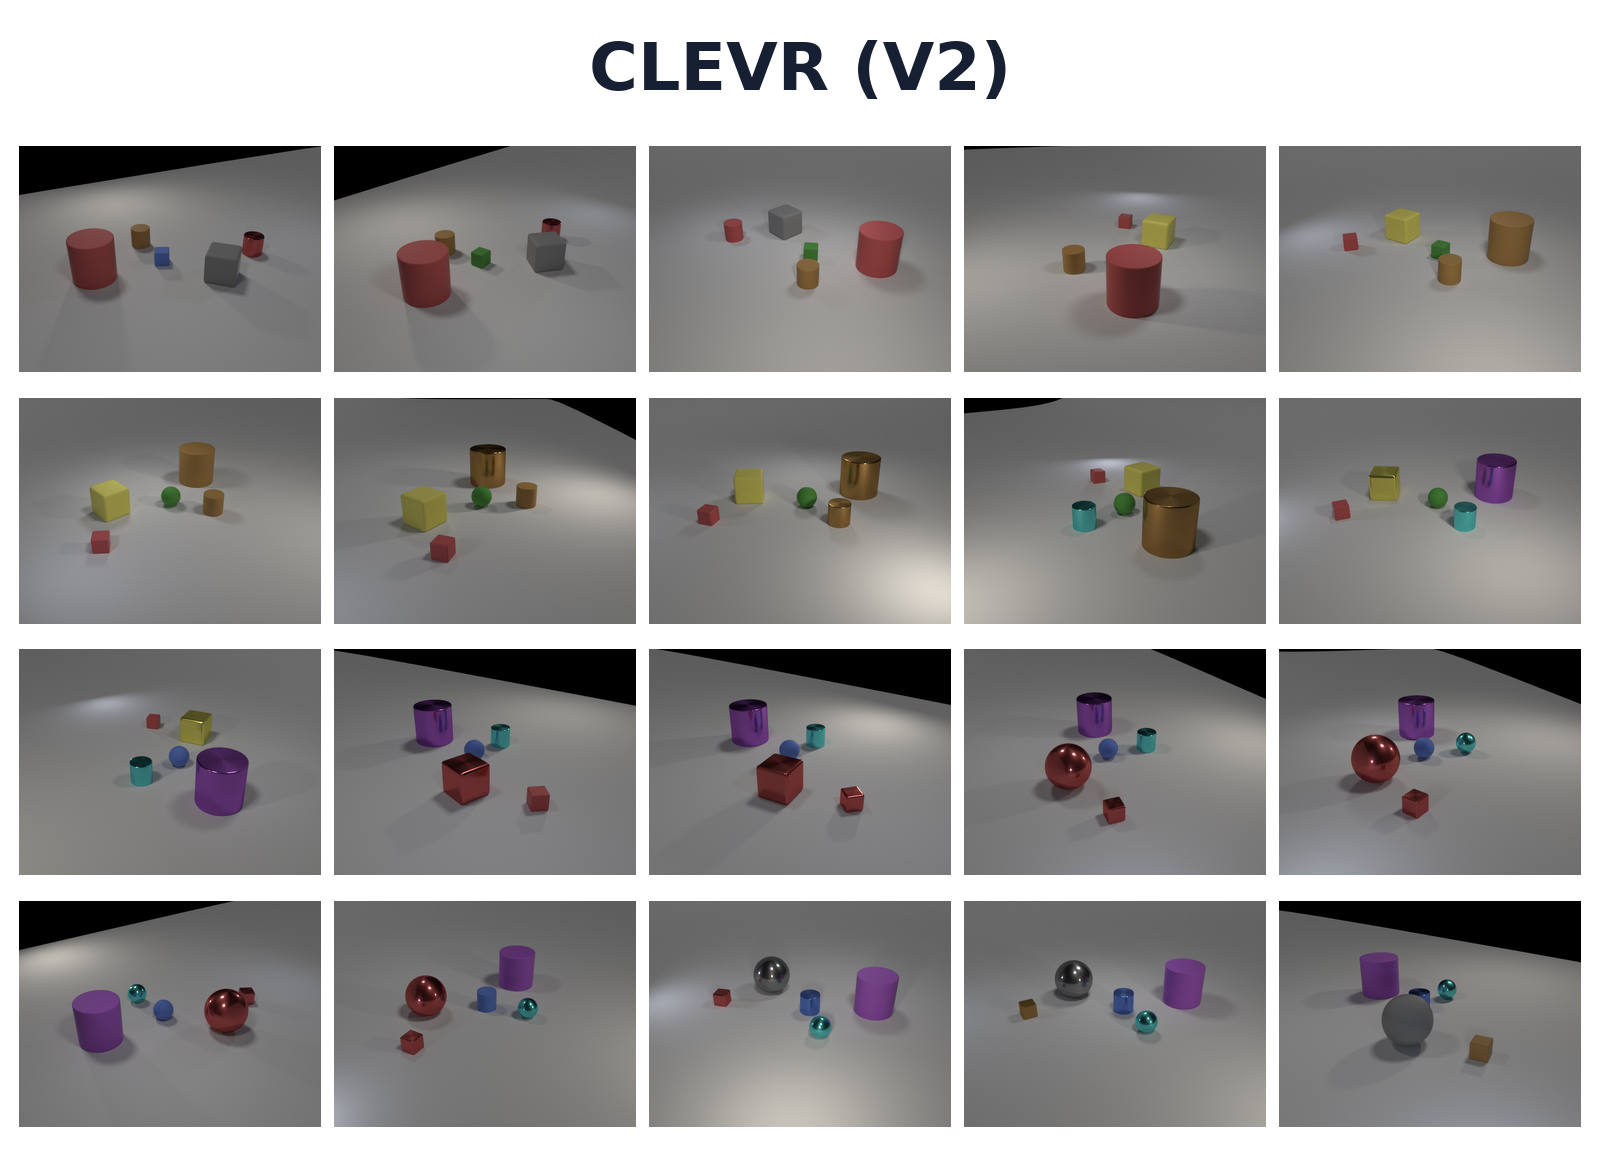
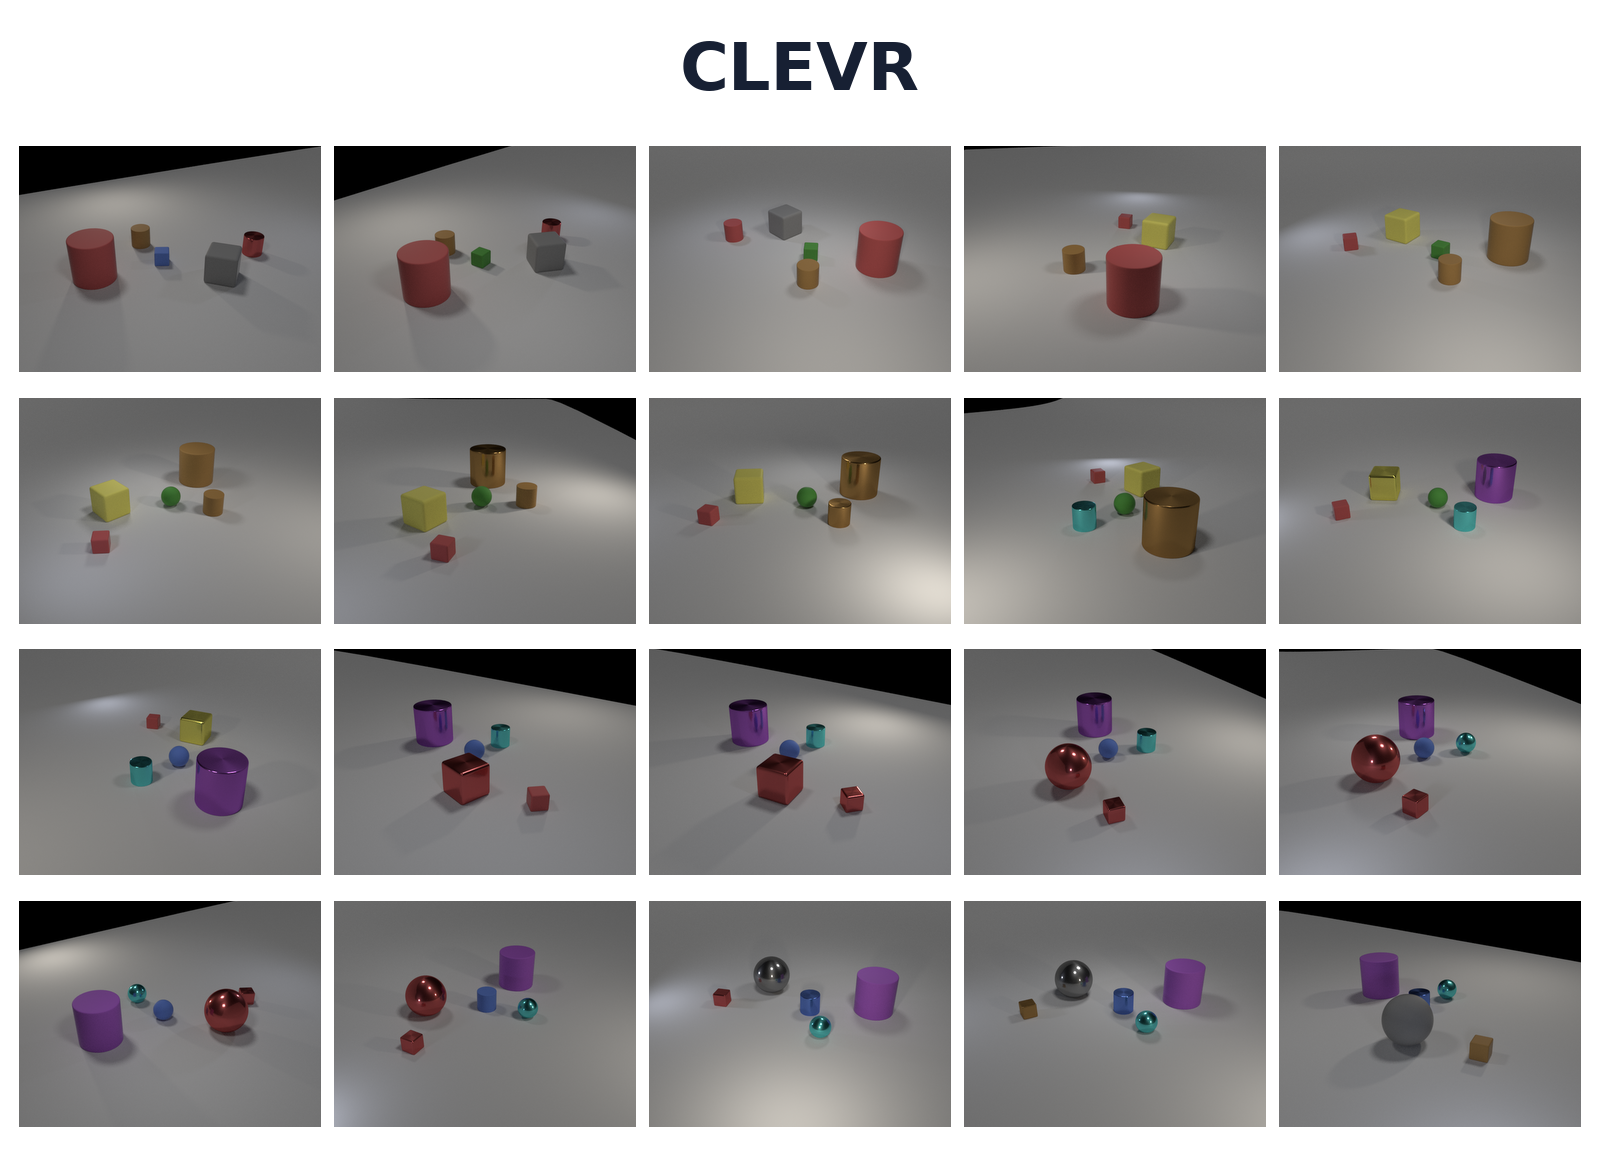
docs: simplify overview and remove extra results sections

Changed region(s): [[0.375, 0.0312, 0.625, 0.0938]]

diff --git a/README.md b/README.md
@@ -8,7 +8,7 @@ Changseon Yu · Hyeokjun Kweon
 
 <img src="assets/fovlab-logo.png" alt="FoVLab" height="20" align="absmiddle"> [Foundational Vision Laboratory](https://fovlab.cau.ac.kr/home), <img src="assets/cau-logo.png" alt="Chung-Ang University" height="20" align="absmiddle"> Chung-Ang University
 
-📄 Paper (coming soon) · [🤗 Dataset](https://huggingface.co/datasets/ssun0626/FINGER) · [🚀 Run](docs/running.md) · [🧭 Method](docs/methodology.md)
+📄 Paper (coming soon) · [🤗 Dataset](https://huggingface.co/datasets/ssun0626/FINGER) · [🚀 Run](docs/running.md)
 
 <img src="assets/recog-overview.svg" alt="ReCoG overview: relation-agnostic vs. relation-aware personalization, and the Relational Concept Graph" width="100%">
 
@@ -35,25 +35,6 @@ regimes. ReCoG also achieves consistently best performance on established person
 benchmarks including captioning and VQA, confirming that relational evidence is broadly
 beneficial beyond fine-grained settings.
 
-## Method
-
-**1. Relation-aware database.** For each pair of concepts $(c_i, c_j)$, a frozen VLM is asked
-what makes $c_i$ different from $c_j$. The answer is stored as a directed edge
-
-$$e_{ij} = \mathrm{VLM}(x_i^s, x_j^s \mid P_{\text{disc}}),$$
-
-and $e_{ij} \neq e_{ji}$ in general. Both edges are obtained from a single VLM call per
-unordered pair. Each concept entry stores its CLIP embedding and its outgoing edges.
-
-**2. Discriminative retrieval via explicit comparison.** At inference, CLIP similarity prunes
-the concept set to a shortlist $\mathcal{K}$. For every pair $(u, v)$ in $\mathcal{K}$, the
-frozen VLM decides whether the query is closer to $c_u$ or $c_v$, conditioned on $e_{uv}$ and
-$e_{vu}$. Wins are aggregated round-robin, and the concept with the most wins is returned
-(ties are broken by CLIP similarity).
-
-**3. Sparse ReCoG.** Instead of all $\mathcal{O}(N^2)$ pairs, edges are built only between each
-concept and its top-$k$ CLIP neighbors, reducing database construction cost.
-
 ## Datasets
 
 ### FINGER benchmark (ours)
@@ -70,7 +51,7 @@ confusability.
 <p align="center">
   <a href="assets/finger-cub-easy-grid.png"><img src="assets/finger-cub-easy-grid.png" alt="CUB-Easy: 20 concept support images in a 5-column by 4-row grid" width="32%"></a>
   <a href="assets/finger-cub-hard-grid.png"><img src="assets/finger-cub-hard-grid.png" alt="CUB-Hard: 20 concept support images in a 5-column by 4-row grid" width="32%"></a>
-  <a href="assets/finger-clevr-grid.png"><img src="assets/finger-clevr-grid.png" alt="CLEVR V2: 20 scene support images in a 5-column by 4-row grid" width="32%"></a>
+  <a href="assets/finger-clevr-grid.png"><img src="assets/finger-clevr-grid.png" alt="CLEVR: 20 scene support images in a 5-column by 4-row grid" width="32%"></a>
 </p>
 
 Each panel shows one support image per concept (5 columns × 4 rows). Click a panel to enlarge.
@@ -158,18 +139,6 @@ Recognition and captioning on MyVLM, Yo'LLaVA, and PerVA:
 |  | RAP | 92.9 | 85.2 | 89.0 | 64.1 |
 |  | R2P | 90.2 | 92.8 | 91.8 | 72.5 |
 |  | **ReCoG** | **97.7** | **99.9** | **98.8** | **73.7** |
-
-VQA on Yo'LLaVA:
-
-| Method | Yo'LLaVA | RAP | GPT-4V+VP | LLaVA | R2P | **ReCoG** |
-| :--- | :---: | :---: | :---: | :---: | :---: | :---: |
-| Accuracy | 92.9 | 93.2 | 86.6 | 89.9 | 96.5 | **97.0** |
-
-### Sparse ReCoG
-
-On CUB-Hard, Sparse ReCoG with $k=1$ already outperforms R2P while requiring only 13 VLM
-calls for graph construction. With $k=2$, it reaches **85.0%** P.Acc using only **26** VLM
-calls, close to the full ReCoG performance of **86.3%** obtained with all 190 pairwise edges.
 
 ## Getting started
 
